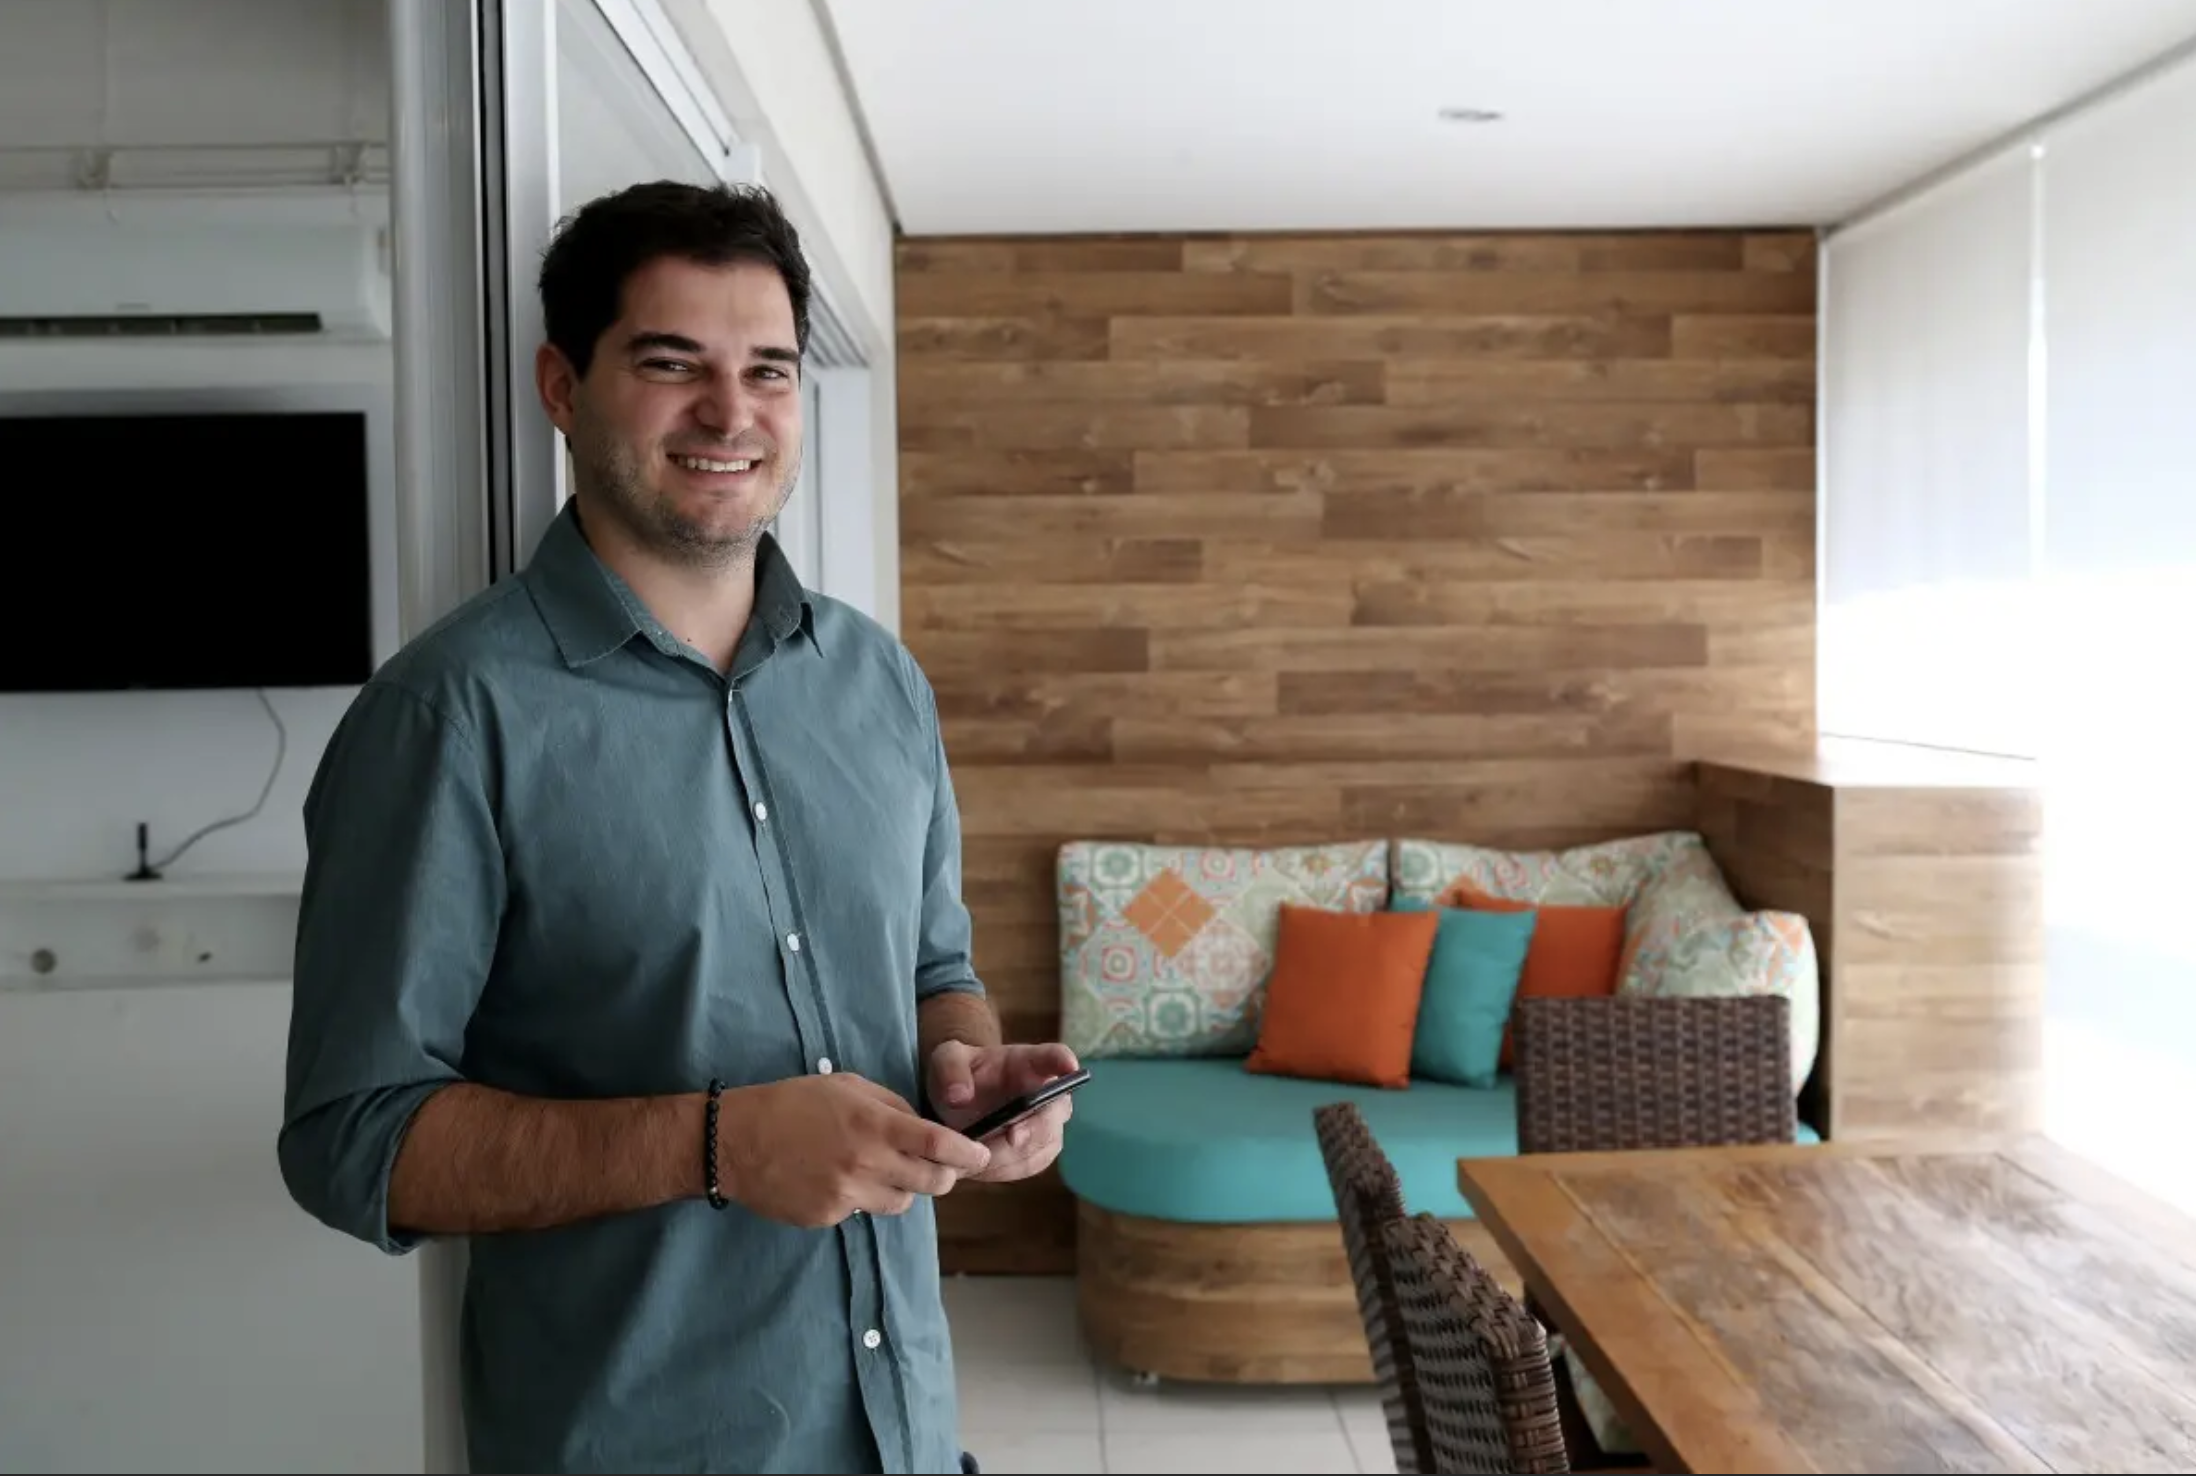
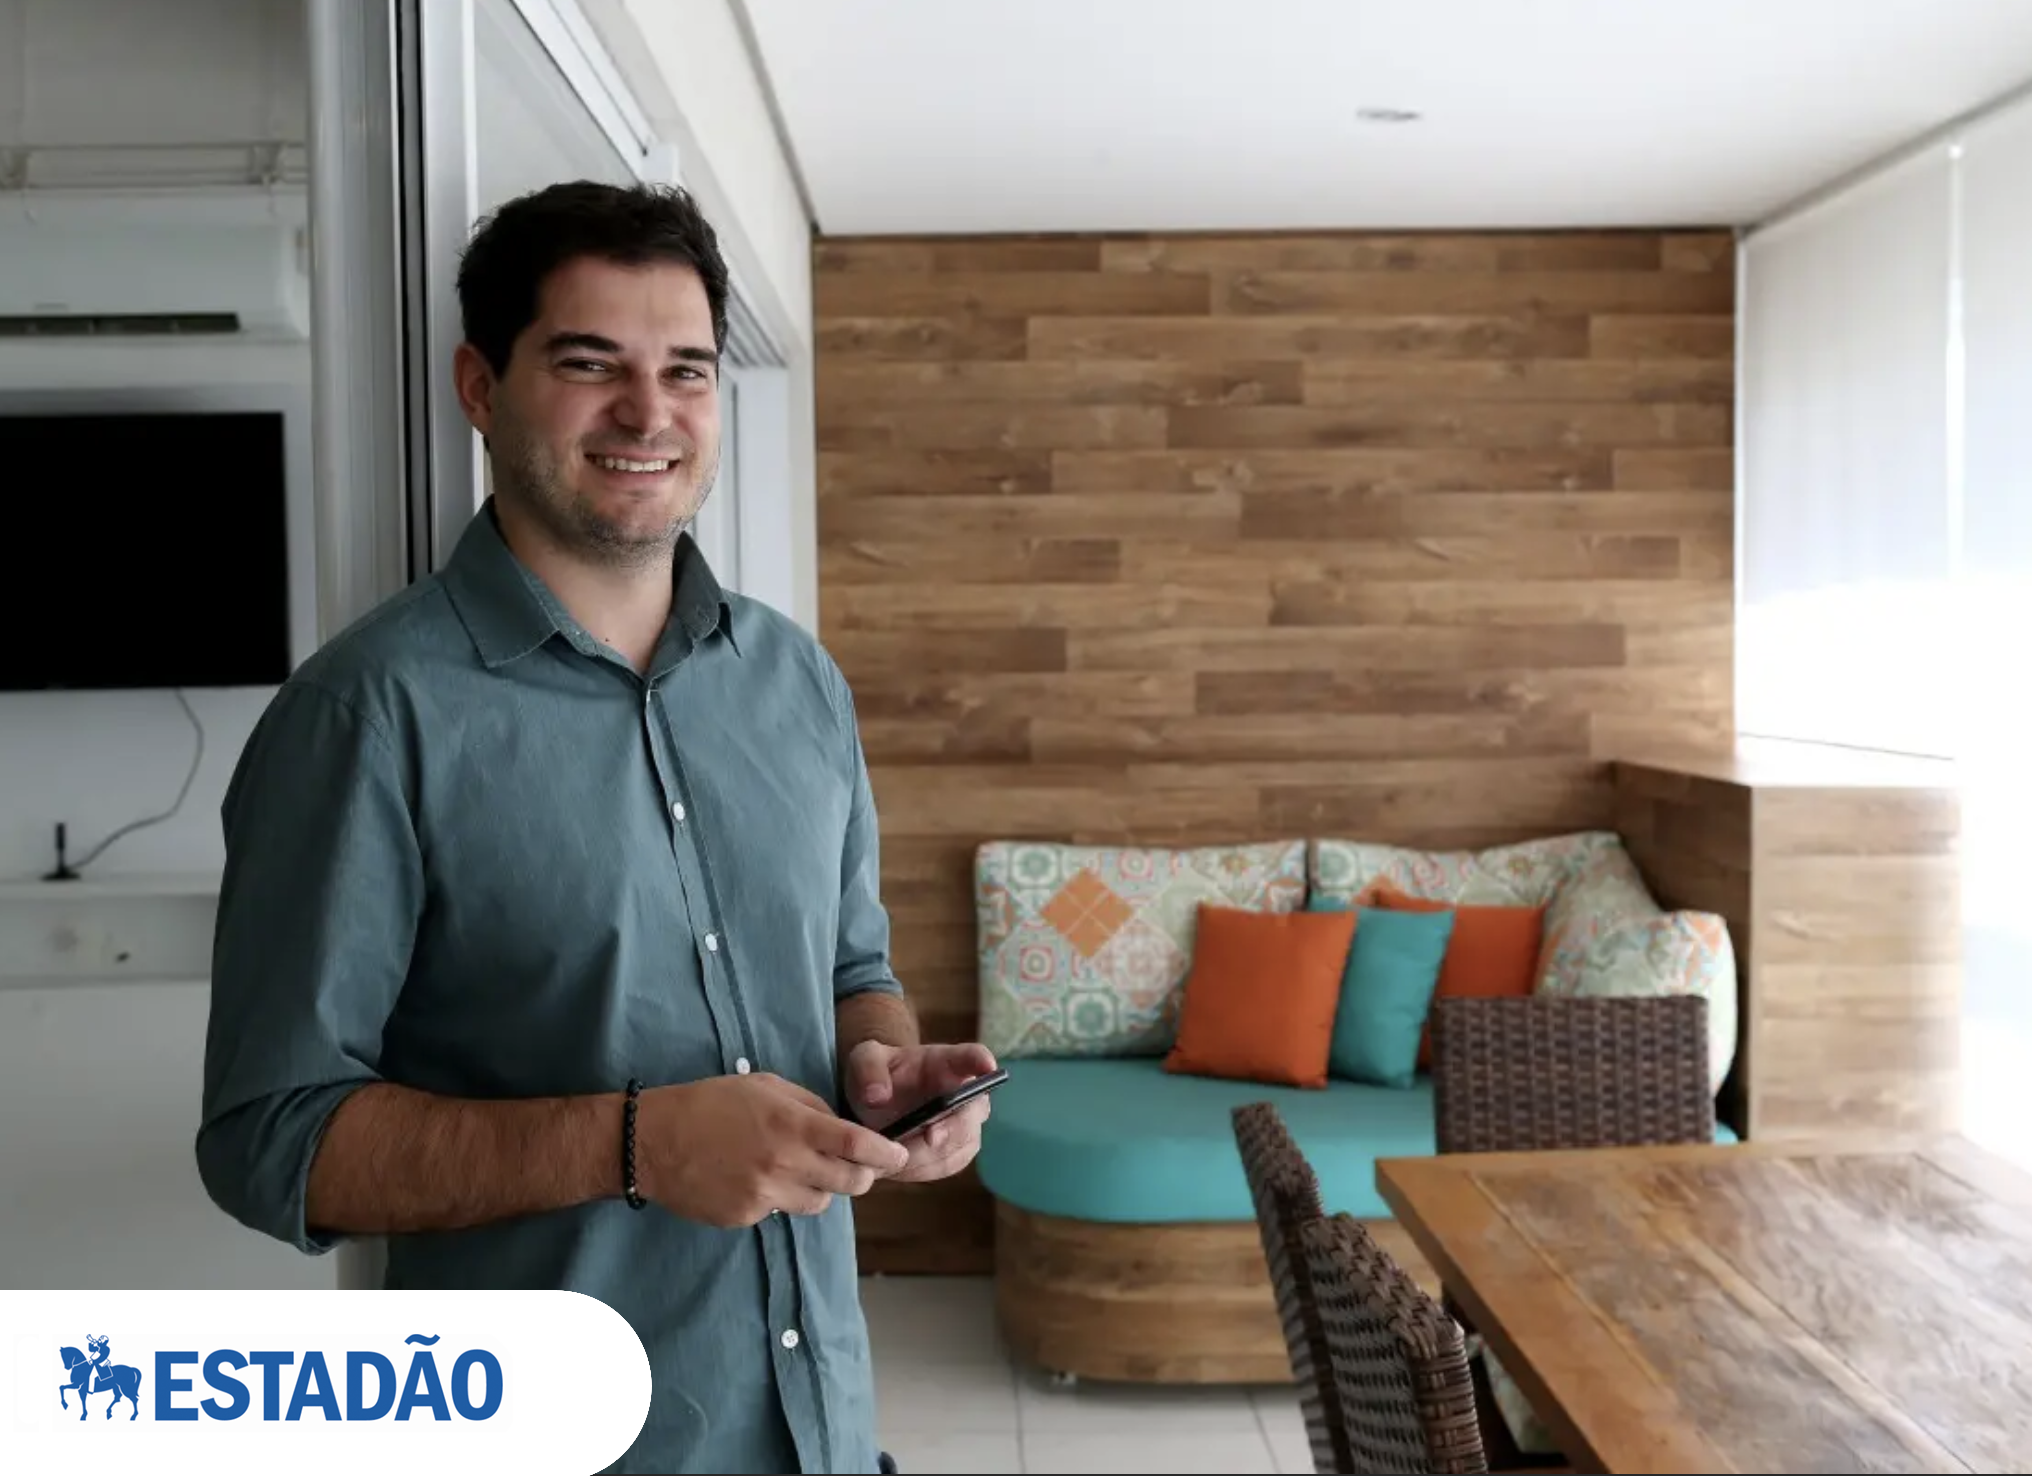
Mudanças no card de mídia

diff --git a/src/views/examples/Landing.jsx b/src/views/examples/Landing.jsx
@@ -78,6 +78,7 @@ class Landing extends React.Component {
               <Row className="row-grid justify-content-lg-center">
                 <div className="text-center">
                   <h2 className="font-weight-light">Quem somos</h2>
+                  <br></br>
                   <p >A Hostt surgiu em 2020 quando um dos nossos
 fundadores, um Superhost no Airbnb, percebeu
 que a demanda por aluguéis de curta temporada
@@ -88,6 +89,7 @@ tempo para administrar.
 É aí que entramos com nosso trabalho,
 oferecendo serviços e estratégias diferenciadas
 que visam potencializar o rendimento dos bens.</p>
+<br></br>
                 </div>
 
 
@@ -242,6 +244,10 @@ que visam potencializar o rendimento dos bens.</p>
               </Col>
             </Row>
             <Container>
+              <Row>
+                <br></br>
+              <p>Atualmente a Hostt possui sob sua gestão mais de 20 apartamentos nos principais bairros de São Paulo, garantindo um excelente nível de serviço aos proprietários, gerando rentabilidade maior que o aluguel tradicional e sem qualquer dor de cabeça e burocracia. A satisfação dos hóspedes também é evidenciada conforme nossas centenas de avaliações e comentários positivos nas plataformas de anúncio.</p>
+              </Row>
               <AirbnbAds codes={['21577485', '21577485', '21577485']}/>
             </Container>
           </section>
@@ -267,9 +273,9 @@ que visam potencializar o rendimento dos bens.</p>
                       />
                       <blockquote className="card-blockquote">
 
-                        <h4 className="font-weight-light">
-                          Estadão
-                        </h4>
+                        <h5 className="font-weight-light">
+                          Conheça o Hostt
+                        </h5>
                         <hr></hr>
                         <p className="text-italic">
                           Locação por aplicativo leva condomínios a se ajustarem

diff --git a/src/assets/scss/custom/_card.scss b/src/assets/scss/custom/_card.scss
@@ -71,7 +71,9 @@
 
 .card {
     .card-blockquote {
-        padding: 2rem;
+        padding-left: 2rem;
+        padding-right: 2rem;
+        padding-top: 1rem;
         position: relative;
 
         .svg-bg {

diff --git a/src/assets/scss/custom/hostt4/_main.scss b/src/assets/scss/custom/hostt4/_main.scss
@@ -50,3 +50,12 @@
 .back-3 {
   background-color: #F3F3F3;
 }
+
+hr {
+  margin-bottom: 1rem;
+  margin-top: 0.5rem;
+}
+
+a {
+  color: #525f7f;
+}
